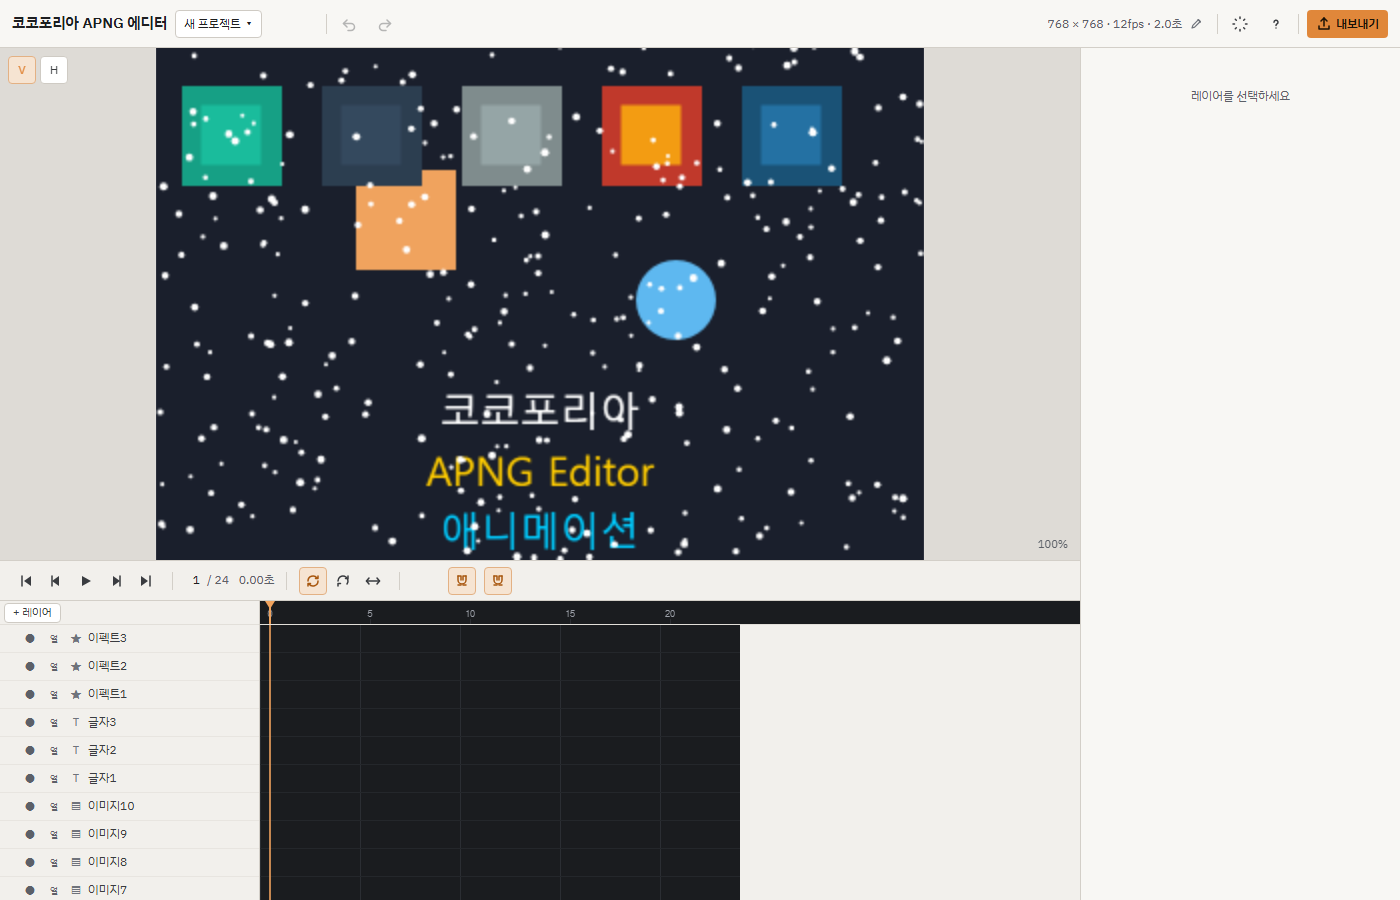
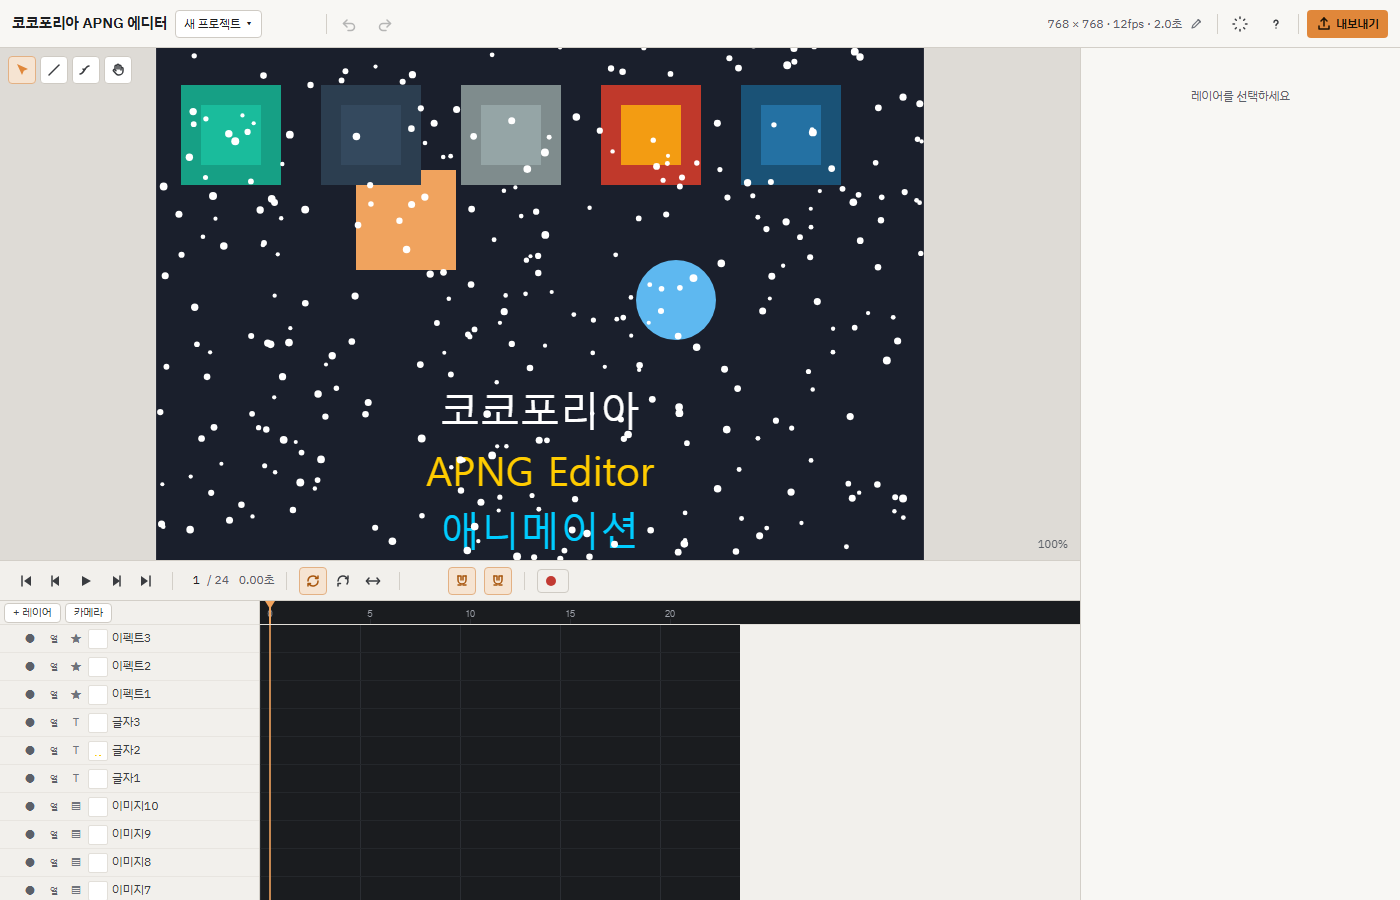
F5-6: 패리티 점검표 + PWA/온보딩 폴리시
- docs/parity.md: old→v2 기능 동등성 점검표(F1~F5 범위)
- app.js: PWA 서비스 워커 controllerchange 최초 설치(claim) 시
  오작동하던 자동 새로고침을, 사용자가 "새로고침" 버튼을 눌렀을
  때(_updating)만 reload하도록 수정
- library.css: 온보딩 백드롭 pointer-events:none(버블만 auto)로
  안내 중에도 에디터 조작 가능
- docs/screens: 다크·라이트 10장 재생성

diff --git a/src/app.js b/src/app.js
@@ -191,6 +191,7 @@ if (!isDemo) {
 // 데스크톱 앱(Tauri)에서는 서비스 워커를 등록하지 않는다.
 if (!isDemo && !isDesktop() && typeof navigator !== 'undefined' && 'serviceWorker' in navigator) {
   let _refreshed = false;
+  let _updating  = false; // 사용자가 "새로고침"을 눌러 새 버전으로 교체 중일 때만 true
   navigator.serviceWorker.register('./sw.js').then((reg) => {
     // 새 버전(대기 중 워커)이 있으면 상단에 "새로고침하면 새 버전" 안내.
     function _offerUpdate(worker) {
@@ -202,8 +203,10 @@ if (!isDemo && !isDesktop() && typeof navigator !== 'undefined' && 'serviceWorke
     if (reg.waiting && navigator.serviceWorker.controller) _showUpdateBar(reg.waiting);
     reg.addEventListener('updatefound', () => _offerUpdate(reg.installing));
   }).catch(() => {});
+  // controllerchange 는 (1) 최초 설치 시 claim, (2) 새 버전 교체 두 경우에 모두 발생한다.
+  // 최초 설치(1)에서는 새로고침하면 안 된다. 사용자가 새 버전 적용을 요청(_updating)했을 때만 reload.
   navigator.serviceWorker.addEventListener('controllerchange', () => {
-    if (_refreshed || (typeof window !== 'undefined' && window.__noReload)) return;
+    if (_refreshed || !_updating || (typeof window !== 'undefined' && window.__noReload)) return;
     _refreshed = true; location.reload();
   });
   function _showUpdateBar(worker) {
@@ -212,7 +215,7 @@ if (!isDemo && !isDesktop() && typeof navigator !== 'undefined' && 'serviceWorke
     bar.className = 'pwa-update-bar';
     bar.innerHTML = '<span>새 버전이 있습니다.</span>';
     const btn = document.createElement('button'); btn.className = 'accent sm'; btn.textContent = '새로고침';
-    btn.addEventListener('click', () => { worker.postMessage({ type: 'skip-waiting' }); });
+    btn.addEventListener('click', () => { _updating = true; worker.postMessage({ type: 'skip-waiting' }); });
     bar.appendChild(btn);
     document.body.appendChild(bar);
   }

diff --git a/src/styles/library.css b/src/styles/library.css
@@ -45,8 +45,9 @@
 .help-empty { color: var(--dim); padding: var(--sp-3); }
 
 /* 처음 사용 안내(F5-4) */
-.onboard-overlay { position: fixed; inset: 0; z-index: 9700; background: rgba(0,0,0,0.5); display: flex; align-items: center; justify-content: center; }
-.onboard-bubble { width: 360px; background: var(--panel); border: 1px solid var(--acc); border-radius: var(--r-3); box-shadow: 0 12px 40px rgba(0,0,0,0.5); padding: var(--sp-4); display: flex; flex-direction: column; gap: var(--sp-2); }
+/* 백드롭은 클릭을 가로채지 않는다(안내 중에도 에디터를 쓸 수 있게). 버블만 상호작용. */
+.onboard-overlay { position: fixed; inset: 0; z-index: 9700; background: rgba(0,0,0,0.5); display: flex; align-items: center; justify-content: center; pointer-events: none; }
+.onboard-bubble { width: 360px; background: var(--panel); border: 1px solid var(--acc); border-radius: var(--r-3); box-shadow: 0 12px 40px rgba(0,0,0,0.5); padding: var(--sp-4); display: flex; flex-direction: column; gap: var(--sp-2); pointer-events: auto; }
 .onboard-step { font-size: var(--fs-1); color: var(--acctext); }
 .onboard-title { font-size: var(--fs-4); font-weight: 600; color: var(--text); }
 .onboard-body { font-size: var(--fs-2); color: var(--text2); line-height: 1.5; }

diff --git a/docs/parity.md b/docs/parity.md
@@ -1,0 +1,120 @@
+# 4단계 패리티 점검표 (old → v2)
+
+기존 에디터(`old/`)의 기능을 v2에서 어디에 어떻게 옮겼는지 100개 항목으로 정리한다.
+상태: **완료** = v2에 구현·테스트됨 / **5단계** = 다음 단계로 미룸(계약은 잡아 둠) / **삭제** = v2 규칙상 빼기로 결정.
+
+실제 공식 체크리스트가 들어오면 이 표를 그에 맞춰 갱신한다. 지금은 F1~F5 묶음 범위에서 작성.
+
+| 번호 | 항목 | 새 위치 | 상태 | 테스트 |
+|---|---|---|---|---|
+| 1 | 다크/라이트 테마, 토큰 변수 | `src/styles/tokens.css`, `ui/shell/theme.js` | 완료 | u0-icons / p1-shell |
+| 2 | 테마 선적용(FOUC 방지) | `index.html` 인라인 스크립트 | 완료 | u0-screens |
+| 3 | 3분할 셸(좌 레이어/중앙 캔버스/우 인스펙터/하단 타임라인) | `ui/shell/shell.js` | 완료 | p1-shell |
+| 4 | 상단 프로젝트 이름 메뉴 | `ui/shell/shell.js` | 완료 | f5-projects |
+| 5 | 드롭다운/메뉴 동작 | `ui/shell/*` | 완료 | u0-dropdown |
+| 6 | 아이콘 세트(이모지 금지) | `ui/shell/icons.js` | 완료 | u0-icons |
+| 7 | 상태줄·토스트 알림 | `ui/shell/status.js` | 완료 | e3-export-ui |
+| 8 | 인스펙터 패널 틀 | `ui/inspector/index.js` | 완료 | u0-inspector |
+| 9 | 단일 진실 문서 스키마 | `core/doc/schema.js` | 완료 | p2-doc |
+| 10 | 명령으로만 변경(`store.apply`) | `core/doc/store.js`, `commands.js` | 완료 | p2-doc |
+| 11 | 패치 기반 알림(범위 통지) | `core/doc/store.js` | 완료 | p2-patch |
+| 12 | 되돌리기/다시하기 | `core/doc/store.js` | 완료 | p2-doc |
+| 13 | begin→임시→commit 1건 기록 | `core/doc/store.js` | 완료 | f1-adjust |
+| 14 | 레이어 추가/삭제/이동 | `commands.js` | 완료 | p2-doc |
+| 15 | 다중 선택·일괄 속성 | `ui/inspector/*`, `editor-state.js` | 완료 | f1-info / f1-multi |
+| 16 | 레이어 속성 편집(blend·opacity·visible·lock) | `commands.js setLayer` | 완료 | p2-doc |
+| 17 | 문서 마이그레이션 | `core/io/migrate.js` | 완료 | p7-storage |
+| 18 | 편집 상태(선택·재생·배율)와 문서 분리 | `ui/editor-state.js` | 완료 | p5-canvas |
+| 19 | 단일 렌더 함수 `renderFrame` | `core/render/frame.js` | 완료 | p4-render |
+| 20 | 미리보기·내보내기 동일 경로 | `core/render/*`, `export/encode.js` | 완료 | e1-export |
+| 21 | 결정론(Math.random/Date.now 금지) | `core/render/*` | 완료 | f4-effects-core |
+| 22 | seed 난수기 | `core/render/rng.js` | 완료 | f4-effects-core |
+| 23 | 심리스 루프(frame 0 == N) | `core/anim/seam.js`, 렌더 | 완료 | f4-effects-core / f1-fx |
+| 24 | 캔버스 풀(렌더 중 생성 금지) | `core/render/pool.js` | 완료 | p4-fix |
+| 25 | `ctx.filter` 미사용(직접 픽셀 보정+캐시) | `core/render/adjust.js` | 완료 | f1-adjust |
+| 26 | 변환(위치·배율·회전·알파) | `core/render/*` | 완료 | p4-render |
+| 27 | 블렌드 모드 12종 | `core/render/*` | 완료 | p4-render |
+| 28 | 배경(투명/단색) | `core/doc/schema.js`, 렌더 | 완료 | p4-render |
+| 29 | 캔버스 확대/축소·이동 | `ui/canvas/*` | 완료 | p5-canvas |
+| 30 | 레이어 선택(클릭·히트 테스트) | `ui/canvas/hit.js` | 완료 | p5-canvas |
+| 31 | 이동 드래그 | `ui/canvas/*` | 완료 | p5-canvas |
+| 32 | 크기/회전 핸들 | `ui/canvas/*` | 완료 | p5-fix3 |
+| 33 | 이미지 끌어다 놓기 | `ui/layer-add.js setupDropTarget` | 완료 | p5-fix4 |
+| 34 | 기준점(anchor) 편집 | `ui/canvas/*`, 그룹 pivot | 완료 | f2-group-pivot |
+| 35 | 격자·스냅 | `ui/canvas/*`, `editorState.gridStep` | 완료 | f2-align |
+| 36 | 눈금/가이드 표시 | `ui/canvas/*` | 완료 | p5-canvas |
+| 37 | 타임라인 틀·눈금 | `ui/timeline/*` | 완료 | p6-timeline |
+| 38 | 재생/정지·플레이헤드 | `ui/timeline/*`, `playback` | 완료 | p6-timeline |
+| 39 | 키프레임 추가/이동/삭제 | `commands.js setKey/moveKeys/removeKey` | 완료 | p6-timeline |
+| 40 | 키프레임 이징(linear~cubicBezier) | `core/anim/easing.js` | 완료 | f3-easing |
+| 41 | 커스텀 베지어 편집 | `ui/inspector/*`, 저장 유지 | 완료 | f3-easing |
+| 42 | 키 리타이밍·일괄 이동 | `commands.js retimeKeys/moveKeys` | 완료 | p6-timeline |
+| 43 | 레이어 행 썸네일 | `ui/timeline/layer-list.js` | 완료 | f2-thumbnail |
+| 44 | 썸네일 캐시(스크럽 중 렌더 0회) | `ui/timeline/*` | 완료 | f2-thumbnail |
+| 45 | 행 우클릭 메뉴(복제 등) | `ui/timeline/*` | 완료 | f2-instance |
+| 46 | fps·프레임 수·반복 설정 | `core/doc/schema.js`, 내보내기 | 완료 | e4-loops |
+| 47 | 이미지 원본 IndexedDB 저장 | `core/io/idb.js`, `assets.js` | 완료 | p7-storage |
+| 48 | 내용 주소 에셋(SHA-256, 중복 제거) | `core/io/assets.js` | 완료 | p7-storage |
+| 49 | 자동 저장 | `core/io/autosave.js` | 완료 | p7-storage |
+| 50 | 프로젝트 파일 내보내기/가져오기(.apngproj) | `core/io/project-file.js` | 완료 | p7-storage |
+| 51 | 고아 에셋 정리 | `core/io/assets.js purgeOrphanAssets` | 완료 | f5-projects |
+| 52 | 프로젝트 목록(열기·복제·이름·삭제·썸네일·정렬) | `ui/library.js`, `app.js projectApi` | 완료 | f5-projects |
+| 53 | 복제 독립성(한쪽 수정 영향 없음) | `app.js duplicateProject` | 완료 | f5-projects |
+| 54 | 이름 바꾸기 → 내보내기 파일명 반영 | `app.js renameProject` | 완료 | f5-projects |
+| 55 | 삭제 시 에셋 purge | `app.js deleteProject` | 완료 | f5-projects |
+| 56 | 저장 공간 부족 안내(quota) | `core/io/autosave.js` | 완료 | p7-storage |
+| 57 | 이미지 레이어 | `ui/layer-add.js`, `core/render/layers/image.js` | 완료 | p5-fix4 |
+| 58 | 움직이는 이미지(GIF·APNG·WebP) 가져오기 | `core/io/anim-decode.js`, `layers/anim.js` | 완료 | f2-anim |
+| 59 | anim 시간 기준 프레임 선택 | `core/render/layers/anim.js` | 완료 | f2-anim |
+| 60 | 글자 레이어 | `core/render/layers/text.js` | 완료 | f1-text |
+| 61 | 글자 테두리·그림자 | `layers/text.js` | 완료 | f1-text |
+| 62 | 글자 캔버스 편집(더블클릭) | `ui/canvas/*` | 완료 | f1-text |
+| 63 | 타자기/글자별 애니 | `layers/text.js` reveal/charAnim | 완료 | f1-text |
+| 64 | 도형 레이어(사각·타원·다각·path·선) | `ui/shapes-pack.js`, `layers/shape.js` | 완료 | f1-shape |
+| 65 | 도형 채움(단색·그라디언트) | `layers/shape.js` | 완료 | f1-shape |
+| 66 | 조정 레이어(아래 전체 보정) | `core/render/layers/adjust-layer.js` | 완료 | f2-shapes-adjust |
+| 67 | 이미지 보정(밝기·흐림·색 덮기·외곽선) | `core/render/adjust.js` | 완료 | f1-adjust / f1-fx |
+| 68 | 트랙 매트/마스크 | `core/render/mask.js`, 소스 슬롯 | 완료 | f1-fx / f4-loopcheck-mask |
+| 69 | 그룹(변환 컨테이너·pivot) | `ui/group-ops.js`, `commands.js group` | 완료 | f2-group-pivot |
+| 70 | 컴포넌트/인스턴스(master+override) | `commands.js`, 렌더 전개 | 완료 | f2-instance |
+| 71 | 카메라(위치·줌 키프레임) | `commands.js setCameraProp`, `ui/inspector/camera-section.js` | 완료 | f2-camera |
+| 72 | 정렬·분배 | `ui/inspector/align-section.js` | 완료 | f2-align |
+| 73 | 모션 계약(레지스트리) | `src/motions/contract.js`, `registry.js` | 완료 | f3-motion-contract |
+| 74 | 클립(윈도우·루프·gain·ease) | `core/doc/schema.js createClip`, `core/anim/clip.js` | 완료 | f3-clip |
+| 75 | 클립 자르기/삭제/복제 | `commands.js splitClip/removeClip/duplicateClip` | 완료 | f3-clip |
+| 76 | 모션 갤러리·파라미터 노브 | `ui/inspector/motion-section.js` | 완료 | f3-motion-section |
+| 77 | 경로 모션(키 점·직선화) | `src/motions/*`, `ui/canvas/path-edit.js` | 완료 | f3-path |
+| 78 | 모션 녹화(그려서 경로 생성) | `ui/motion-record.js` | 완료 | f3-record |
+| 79 | 키 단순화(reduceKeys) | `ui/motion-record.js`, `src/motions/*` | 완료 | f3-record |
+| 80 | 도구(옮기기·편집·움직이기·손) + 단축키 | `ui/tools/*`, `keys.js` | 완료 | f3-tools |
+| 81 | 이펙트 레이어 틀·갤러리(분류·검색) | `ui/effect-gallery.js`, `effects/registry.js` | 완료 | f4-effect-ui |
+| 82 | 이펙트 파라미터 UI(모든 타입) | `ui/inspector/*` | 완료 | f4-effect-ui |
+| 83 | 이펙트 시드(다시 생성·재현) | `effects/*` | 완료 | f4-effects-core |
+| 84 | 이펙트 범위(박스)·소스 슬롯 | `effects/*`, 렌더 | 완료 | f4-effect-ui |
+| 85 | 루프 이음새 검사(Ctrl+Shift+L) | `ui/loop-check.js`, `core/anim/seam.js` | 완료 | f4-loopcheck-mask |
+| 86 | 이펙트 45종 전체 이식 | `effects/*` (현재 시험 효과 3종) | 5단계 | f4-effects-core(시험 3종) |
+| 87 | APNG 인코더(무손실·renderFrame 일치) | `export/encode-worker.js`, `vendor/upng` | 완료 | e1-export |
+| 88 | WebP 인코더(libwebp wasm, 사파리 회피) | `vendor/webp`, worker | 완료 | e1-export |
+| 89 | GIF 인코더 | `vendor/omggif` | 완료 | e1-export |
+| 90 | 핑퐁/루프·같은 프레임 병합·여백 트림 | `export/*` | 완료 | e1-export |
+| 91 | 용도 프리셋·목표 용량 자동 맞추기 | `export/fit.js` | 완료 | e2-fit |
+| 92 | 여러 형식 한 번에·굽기 공유·취소 | `export/*` | 완료 | e2-fit |
+| 93 | 내보내기 모달 UI(형식별 칸·파일명·MIME) | `ui/export/index.js` | 완료 | e3-export-ui |
+| 94 | 데스크톱(Tauri) 저장/열기/업데이트 | `platform/*` | 완료 | e4-desktop |
+| 95 | PSD 가져오기(폴더→그룹, blend/opacity/숨김) | `ui/psd-import.js`, `core/io/psd*.js`, `vendor/ag-psd` | 완료 | f5-psd |
+| 96 | PSD 블렌드 매핑·미지원 경고·텍스트 래스터화 | `core/io/psd.js` | 완료 | f5-psd |
+| 97 | 시작 템플릿·캔버스 프리셋 | `ui/templates.js` | 완료 | f5-projects |
+| 98 | 처음 사용 안내(3단계)·다시 보기 | `ui/help.js` | 완료 | f5-help |
+| 99 | 단축키 도움말(keys.js 한 소스·검색) | `ui/shortcuts.js`, `ui/help.js` | 완료 | f5-help |
+| 100 | 오프라인 설치(PWA·서비스 워커·새 버전 안내) | `sw.js`, `manifest.webmanifest`, `app.js` | 완료 | f5-pwa |
+
+## 5단계로 미룬 것(계약은 잡아 둠)
+
+- 이펙트 45종 전체(현재는 시험 효과 3종으로 계약만 검증 — 86번).
+- 모션/효과 프리셋 데이터와 에셋 팩(템플릿 내용은 `ui/templates.js` 한 파일에 두고 5단계에서 교체 — 97번).
+- 페인트/래스터 레이어, 펜 도구 고급 편집.
+
+## v2 규칙상 뺀 것(삭제)
+
+- 클라우드 동기화: v2는 백엔드 없음·작업물은 브라우저 밖으로 안 나감(CLAUDE.md). old의 `cloud.js` 기능은 넣지 않는다.
+- 런타임 CDN 로딩: 외부 코드는 모두 `vendor/` 파일로 둔다(구글 폰트 CSS만 예외). old의 `esm.sh/ag-psd` 동적 import는 벤더 번들로 대체(95번).
